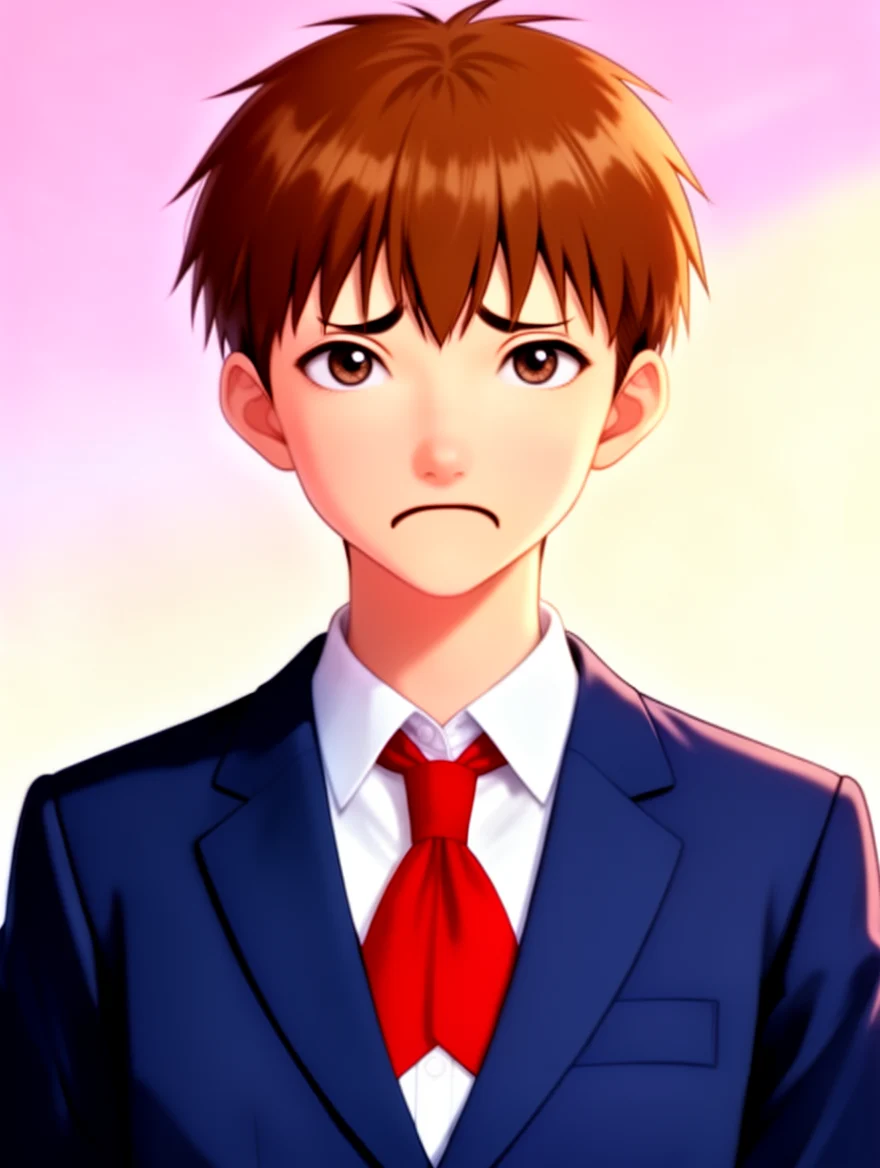
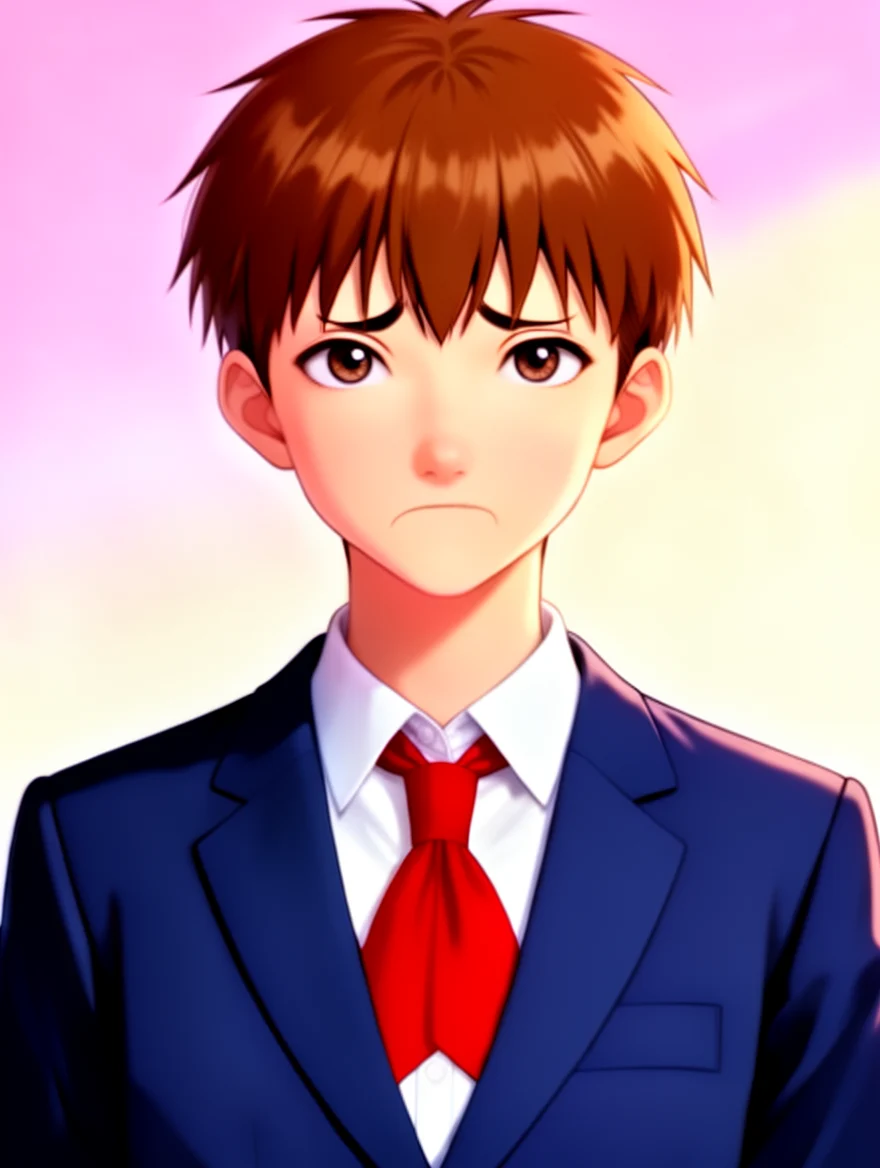
feat(assets): softer worried mouths for boy-01, boy-07 and girl-03
Their worried mouths were thick, near-black strokes that looked pasted
on. Each is now an --edit of the accepted portrait that redraws only the
mouth, same shape and place, as a thinner warm dark brown line (the
wording that fixed boy-05's worried).

diff --git a/tools/gen_avatars.py b/tools/gen_avatars.py
@@ -491,7 +491,7 @@ ACCEPTED_VARIANTS: dict[str, dict[str, str]] = {
     "girl-03": {
         "happy": "avatar_girl-03_happy_00001_.png",
         "thinking": "avatar_girl-03_thinking_edit_00001_.png",
-        "worried": "avatar_girl-03_worried_edit_00002_.png",
+        "worried": "avatar_girl-03_worried_edit_00003_.png",
         "victory": "avatar_girl-03_victory_00001_.png",
         "defeat": "avatar_girl-03_defeat_edit_00001_.png",
     },
@@ -547,7 +547,7 @@ ACCEPTED_VARIANTS: dict[str, dict[str, str]] = {
     "boy-01": {
         "happy": "avatar_boy-01_happy_00001_.png",
         "thinking": "avatar_boy-01_thinking_edit_00003_.png",
-        "worried": "avatar_boy-01_worried_edit_00001_.png",
+        "worried": "avatar_boy-01_worried_edit_00002_.png",
         "victory": "avatar_boy-01_victory_00001_.png",
         "defeat": "avatar_boy-01_defeat_edit_00001_.png",
     },
@@ -589,7 +589,7 @@ ACCEPTED_VARIANTS: dict[str, dict[str, str]] = {
     "boy-07": {
         "happy": "avatar_boy-07_happy_00001_.png",
         "thinking": "avatar_boy-07_thinking_edit_00001_.png",
-        "worried": "avatar_boy-07_worried_edit_00001_.png",
+        "worried": "avatar_boy-07_worried_edit_00002_.png",
         "victory": "avatar_boy-07_victory_edit_00001_.png",
         "defeat": "avatar_boy-07_defeat_00001_.png",
     },
